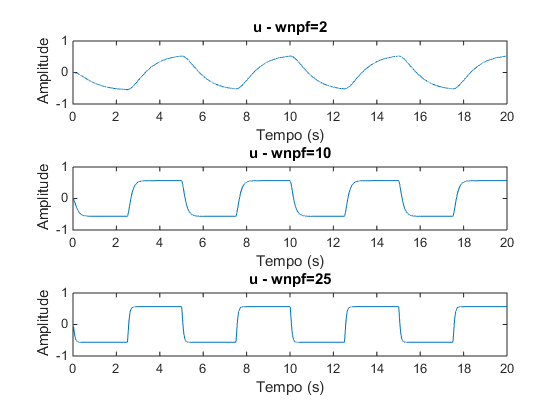
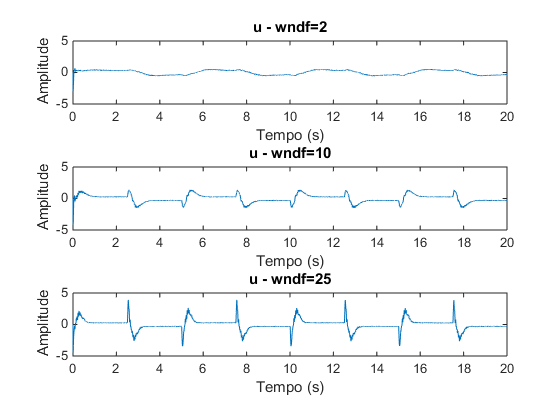
Correcção de alguns erros

diff --git a/report/report.tex b/report/report.tex
@@ -408,8 +408,8 @@ Foram introduzidos no real-time workshop do MATLAB os vectores de ganho obtidos 
 \caption{Dados obtidos para $u(t)$ com o sistema real}
 \label{fig:u_d}
 \end{figure}
-Quanto à saída obtida observas-se que, apesar de ser muito semelhante à saída obtida através da simulação computacional, na simulação o valor de y tende para valores bem determinados de amplitude sempre que se varia a referência (neste caso, a referência é uma onda quadrada com um período de $T=5$s), enquanto que no sistema real é possivel notar a existência de uma pequena oscilação em torno dos valores onde a barra se deveria encontrar estática. Tal siginfica que quando a barra deveria estar parada, a sua ponta ainda vibra, mesmo que pouco. Tal pode dever-se à zona morta do motor utilizado, visto que o controlador já não consegue fornecer energia suficiente para que o motor actue na barra de modo a esta ficar perfeitamente imóvel.\\
-Também comparando os resultados obtidos para u, é possível confirmar a perturbação da zona morta do motor visto que o valor de u, que é o sinal que actua sobre o motor,  na simulação tende para 0 suavemente, enquanto que na prática u varia impulsivamente, o que é uma tentativa do controlador de conseguir controlar o motor fora da sua zona morta. Quando o valor obtido para a ponta da barra finalmente se aproxima à com o valor na referência, o controlador continua a enviar um sinal ao motor para que este actue de modo a anular as vibrações na barra, no entanto como este não responde, o controlador continua a enviar um  sinal u diferente de 0 para actuar o motor, como se vê na figura \ref{fig:u_d}, enquanto que para um motor perfeito, como é o caso da figura \ref{fig:u_t}, o sinal u vai tender assimptóticamente para 0.
+Quanto à saída obtida observa-se que, apesar de ser muito semelhante à saída obtida através da simulação computacional, na simulação o valor de y tende para valores bem determinados de amplitude sempre que se varia a referência (neste caso, a referência é uma onda quadrada com um período de $T=5$s), enquanto que no sistema real é possivel notar a existência de uma pequena oscilação em torno dos valores onde a barra se deveria encontrar estática. Isto siginfica que quando a barra deveria estar parada, a sua ponta ainda vibra, mesmo que pouco. Tal pode dever-se à zona morta do motor utilizado, visto que o controlador já não consegue fornecer energia suficiente para que o motor actue na barra de modo a esta ficar perfeitamente imóvel.\\
+Também comparando os resultados obtidos para u, é possível confirmar a perturbação da zona morta do motor visto que este valor, que é o sinal que actua sobre o motor,  na simulação tende para 0 suavemente, enquanto que na prática u varia impulsivamente, o que é uma tentativa do controlador de estabilizar a ponta da barra. Quando o valor obtido para a ponta da barra finalmente se aproxima ao valor na referência, o controlador continua a enviar um sinal ao motor para que este actue de modo a anular as vibrações na barra, no entanto como este não responde, o controlador continua a enviar um sinal u diferente de 0 para actuar o motor, como se vê na figura \ref{fig:u_d}, enquanto que para um sistema perfeito, como é o caso da figura \ref{fig:u_t}, o sinal u vai tender assimptoticamente para 0.
 
 \section{Resposta sem filtro na saída}
 Anulando o filtro no sinal do extensómetro através do esquema de Simulink, obtive-se o sinal $u$ e $y$ representados nas figuras \ref{fig:u_00} e \ref{fig:y_00} respectivamente.\\
@@ -424,24 +424,24 @@ Anulando o filtro no sinal do extensómetro através do esquema de Simulink, obt
 \label{fig:u_00}
 \end{figure}
 Nota-se imediatamente que os sinais obtidos são agora mais parecidos com as simulações feitas no Simulink, visto que a introdução de um filtro que elimina as altas frequências num sensor é semelhante a baixar a frequência de amostragem do sensor, pois as variações rápidas que são medidas não chegam ao controlador. Assim sendo, visto que sem filtro a estimação é mais rápida que com o filtro, obtém-se um resultado mais aproximado da simulação (que é ideal).\\
-É de notar que , de modo semelhante ao que pode ser observado nos resultados da secção anterior, o sinal $u$ nunca chega a ir exactamente para 0 como é observado na simulação, visto que chega a um ponto que o sinal enviado para corrigir a posição do motor não é suficiente para que este actue, o que resulta num erro na entrada do controlador e consequentemente num sinal $u$ à saída deste diferente de 0.
+É de notar que, de modo semelhante ao que pode ser observado nos resultados da secção anterior, o sinal $u$ nunca chega a ir exactamente para 0 como é observado na simulação, visto que chega a um ponto que o sinal enviado para corrigir a posição do motor não é suficiente para que este actue, o que resulta num erro na entrada do controlador e consequentemente num sinal $u$ à saída deste diferente de 0.
 
 \section{Efeito da variação do polo do pré-filtro}
-A introdução de um filtro passa-baixo na referência irá eliminar as componentes de alta frequência deste sinal, que neste caso, se escolheu ser uma onda quadrada com frequência $f=0.2$Hz. Visto que a onda quadrada varia muito rapidamente, passando quase instantâneamente do seu valor máximo para o seu valor mínimo a cada meio período, isto leva a um comportamento muito impulsivo do sistema (e consequentemente da estrutura de controlo). A filtragem da referência leva a uma suavização deste sinal, resultanto num comportamento mais suave do sistema.\\
-Como é possivel observar nas figuras \ref{fig:pf_y}, \ref{fig:pf_u}, \ref{fig:pf_ref}, à medida que se diminui o valor da variável wnpf, vai-se deslocando o pólo deste filtro cada vez mais para a esquerda, sendo que quando wnpf=0, o filtro filtra todas as frequências (sendo a referência 0 para qualquer t). Esta filtragem irá eliminar as altas frequências do sinal de entrada, que estimulam um comportamento muito rápido do sistema, o que implica que quanto menor for a frequência de corte, maior será a suavidade com que o sistema vai tender para a estabilidade.
+A introdução de um filtro passa-baixo na referência irá eliminar as componentes de alta frequência deste sinal, que neste caso, se escolheu ser uma onda quadrada com frequência $f=0.2$Hz. Visto que a onda quadrada varia muito rapidamente, passando quase instantaneamente do seu valor máximo para o seu valor mínimo a cada meio período, isto leva a um comportamento muito impulsivo do sistema (e consequentemente da estrutura de controlo). A filtragem da referência leva a uma suavização deste sinal, resultanto num comportamento mais suave do sistema.\\
+Como é possivel observar nas figuras \ref{fig:pf_y}, \ref{fig:pf_u}, \ref{fig:pf_ref}, à medida que se diminui o valor da variável wndf, vai-se deslocando o pólo deste filtro cada vez mais para a esquerda, sendo que quando wndf=0, o filtro filtra todas as frequências (sendo a referência 0 para qualquer t). Esta filtragem irá eliminar as altas frequências do sinal de entrada, que estimulam um comportamento muito rápido do sistema, o que implica que quanto menor for a frequência de corte, maior será a suavidade com que o sistema vai tender para a estabilidade.
 \begin{figure}[H]
 \includegraphics[width=3.5in]{../img/y_filtro.png}
-\caption{Dados obtidos para a saída ($y$) do sistema real com vários valores da variável wpfn.}
+\caption{Dados obtidos para a saída ($y$) do sistema real com vários valores da variável wndf.}
 \label{fig:pf_y}
 \end{figure}
 \begin{figure}[H]
 \includegraphics[width=3.5in]{../img/u_filtro.png}
-\caption{Dados obtidos para o sinal de actuação ($u$) do sistema real com vários valores da variável wpfn.}
+\caption{Dados obtidos para o sinal de actuação ($u$) do sistema real com vários valores da variável wndf.}
 \label{fig:pf_u}
 \end{figure}
 \begin{figure}[H]
 \includegraphics[width=3.5in]{../img/ref_filtro.png}
-\caption{Dados obtidos para de referência ($r$) do sistema real com vários valores da variável wpfn}
+\caption{Dados obtidos para de referência ($r$) do sistema real com vários valores da variável wndf.}
 \label{fig:pf_ref}
 \end{figure}
 É de realçar que quando o sistema funciona neste regime está-se a atrasar a resposta do sistema face a uma variação externa em troca da sua estabilidade e suavidade. Logo, caso se queira determinar os limites do controlador implementado, não é favorável a implementação de um pré-filtro, da mesma maneira que caso o sistema fosse implementado num sistema comercial, já seria favorável a implementação deste filtro, de modo a conservar os equipamentos controlados.
@@ -449,7 +449,7 @@ Como é possivel observar nas figuras \ref{fig:pf_y}, \ref{fig:pf_u}, \ref{fig:p
 \section{Ensaio sem sinal do extensómetro}
 Os resultados obtidos para a saída do sistema e para a saída do controlador quando o sinal do extensómetro não é utilizado na realimentação apresentam-se nas figuras \ref{fig:y_next} e \ref{fig:u_next}.\\
 O sinal na saída do sistema é semelhante ao que foi obtido para o caso em que se implementou um filtro no extensómetro, visto que a eliminação do sinal do extensómetro na realimentação deverá ser equivalente ao caso limite em que o filtro deste corta todas as frequências.\\
-Em termos práticos, eliminação do sinal do extensómetro na realimentação significa que o sistema irá perder sensibilidade às variações do ângulo $\alpha$, visto que toda a informação que pode ser obtida acerca deste é a partir da actuação do potenciómetro devido à inércia da barra.
+Em termos práticos, eliminação do sinal do extensómetro na realimentação significa que o sistema irá perder sensibilidade às variações do ângulo $\alpha$, visto que toda a informação que pode ser obtida acerca deste é origina da actuação do potenciómetro devido à inércia da barra.
 \begin{figure}[H]
 \includegraphics[width=2.5in]{../imgs/dados_0n/dados_0n_y.png}
 \caption{Dados obtidos para a saída ($y$) do sistema sem realimentação do extensómetro}
@@ -476,7 +476,7 @@ E para os pólos do observador:
 \end{bmatrix}
 \end{equation}
 É expectável que com estes pólos se induza um comportamento mais rápido no observador assimptótico, visto que se está a afastar os seus pólos para frequências mais altas comparativamente com o caso analisado nas outras secções.\\
-É possível observar que o sinal que sai do controlador ($u$) varia de forma mais impulsiva que com os valores prórpios escolhidos anteriormente. Isto é uma consequência do afastamento dos pólos do observador, que o tornam mais rápido e que por isso induz mais volatilidade na saída do controlador.\\
+É possível observar que o sinal que sai do controlador ($u$) varia de forma mais impulsiva que com os valores prórpios escolhidos anteriormente. Isto é uma consequência do afastamento dos pólos do observador, que o tornam mais rápido e que por isso induz volatilidade na saída do controlador.\\
 Na saída do sistema ($y$) não existem diferenças relevantes entre os dois sinais obtidos, pelo que se pode concluir que apesar de se aumentado a rapidez do observador (tornando-o mais sensível às variações de alta frequência), a mecânica do sistema já atingiu o limite para a rapidez de actuação máxima.\\
 Os dados obtidos para este ensaio estão representados nas figuras \ref{fig:y_pri} e \ref{fig:u_pri}.
 \begin{figure}[H]

diff --git a/dados/recolha_imgs.m b/dados/recolha_imgs.m
@@ -1,12 +1,14 @@
 clear;
+hold off;
+close all;
 
 str='dados_10_2';
 
 dat=importdata(strcat(str,'.txt'));
 
 subplot(3,1,1);
-plot(dat(1:end,1),dat(1:end,6));
-title('u - wnpf=2');
+plot(dat(1:end,1),dat(1:end,8));
+title('u - wndf=2');
 xlabel('Tempo (s)');
 ylabel('Amplitude'); hold on;
 
@@ -15,8 +17,8 @@ str='dados_10_10';
 dat=importdata(strcat(str,'.txt'));
 
 subplot(3,1,2);
-plot(dat(1:end,1),dat(1:end,6));
-title('u - wnpf=10');
+plot(dat(1:end,1),dat(1:end,8));
+title('u - wndf=10');
 xlabel('Tempo (s)');
 ylabel('Amplitude'); hold on;
 
@@ -25,8 +27,8 @@ str='dados_10_25';
 dat=importdata(strcat(str,'.txt'));
 
 subplot(3,1,3);
-plot(dat(1:end,1),dat(1:end,6));
-title('u - wnpf=25');
+plot(dat(1:end,1),dat(1:end,8));
+title('u - wndf=25');
 xlabel('Tempo (s)');
-ylabel('Amplitude');
+ylabel('Amplitude'); hold off;
 %print('-dpng',strcat('C:\Users\Pedro\Documents\CEE\imgs\',str,'\',str,'_y'));

diff --git a/dados/recolha_imgs2.m b/dados/recolha_imgs2.m
@@ -1,10 +1,32 @@
 clear;
 
-dat=importdata('C:\Users\Pedro\Documents\CEE\dados\dados_01.txt');
+str='dados_10_2';
 
-plot(dat(1:end,1),dat(1:end,8));
-title('u');
+dat=importdata(strcat(str,'.txt'));
+
+subplot(3,1,1);
+plot(dat(1:end,1),dat(1:end,6));
+title('y - wnpf=2');
+xlabel('Tempo (s)');
+ylabel('Amplitude'); hold on;
+
+str='dados_10_10';
+
+dat=importdata(strcat(str,'.txt'));
+
+subplot(3,1,2);
+plot(dat(1:end,1),dat(1:end,6));
+title('u - wnpf=10');
+xlabel('Tempo (s)');
+ylabel('Amplitude'); hold on;
+
+str='dados_10_25';
+
+dat=importdata(strcat(str,'.txt'));
+
+subplot(3,1,3);
+plot(dat(1:end,1),dat(1:end,6));
+title('y - wnpf=25');
 xlabel('Tempo (s)');
 ylabel('Amplitude');
-
-print('-dpng',strcat('C:\Users\Pedro\Documents\CEE\img\u_dados_01.png'));
+%print('-dpng',strcat('C:\Users\Pedro\Documents\CEE\imgs\',str,'\',str,'_y'));
